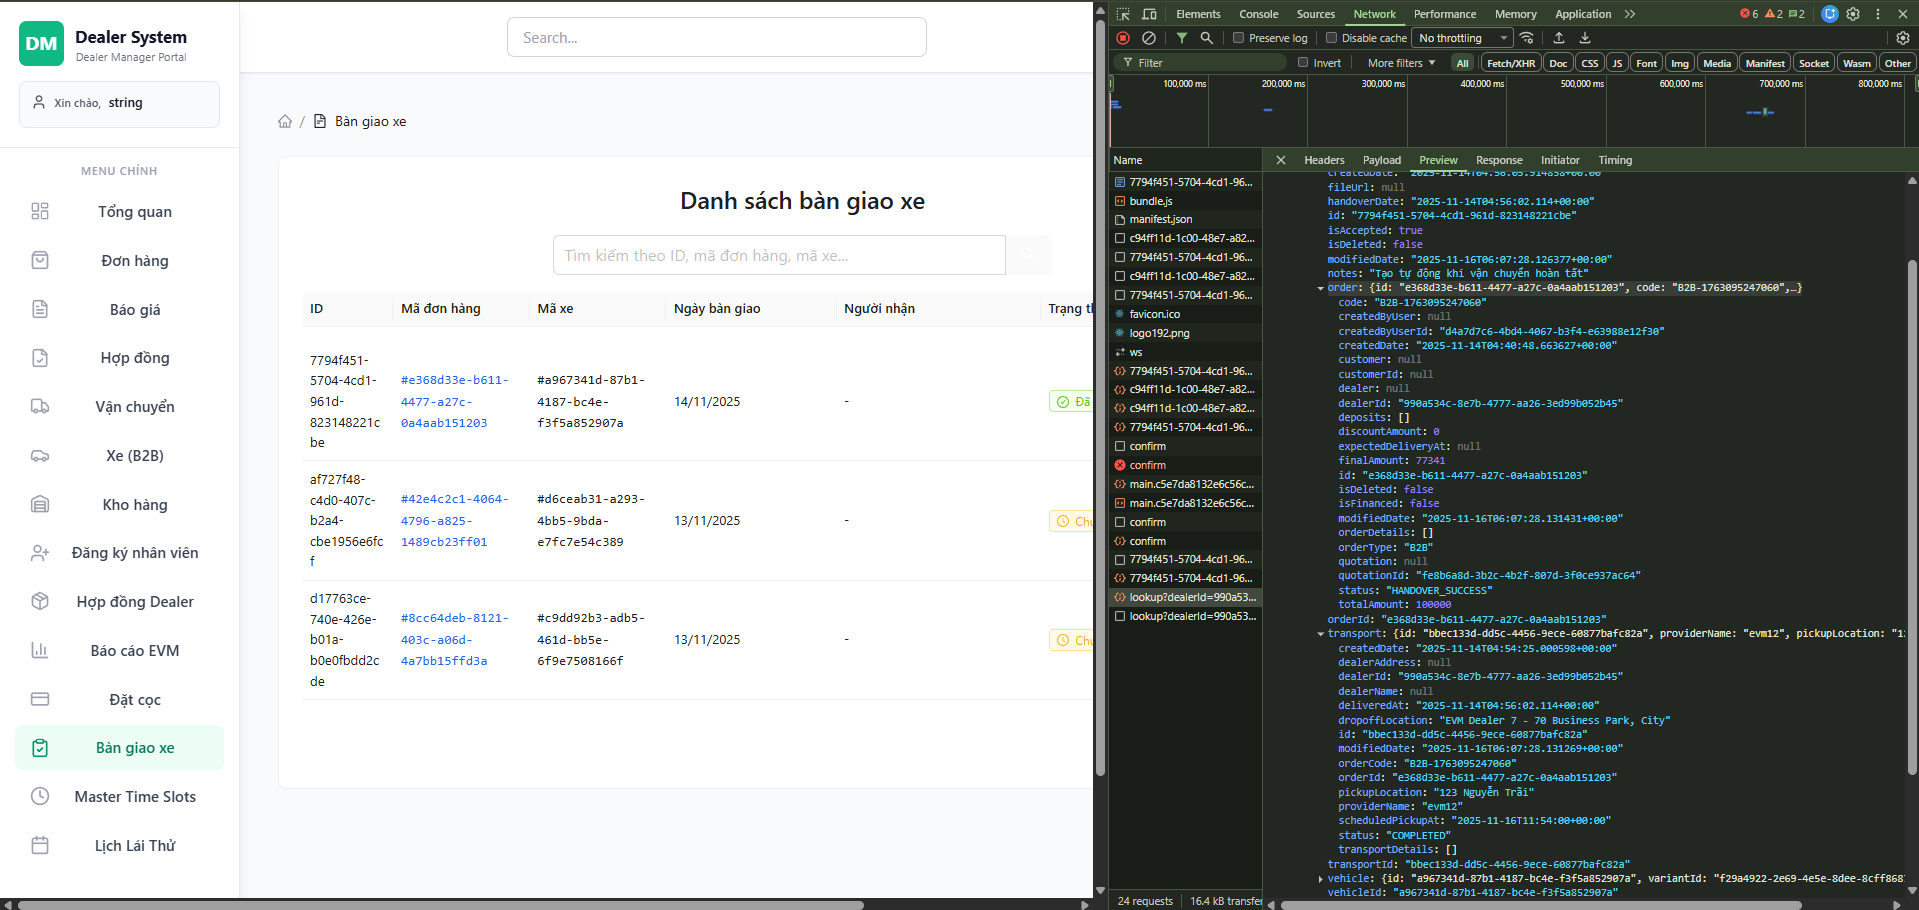
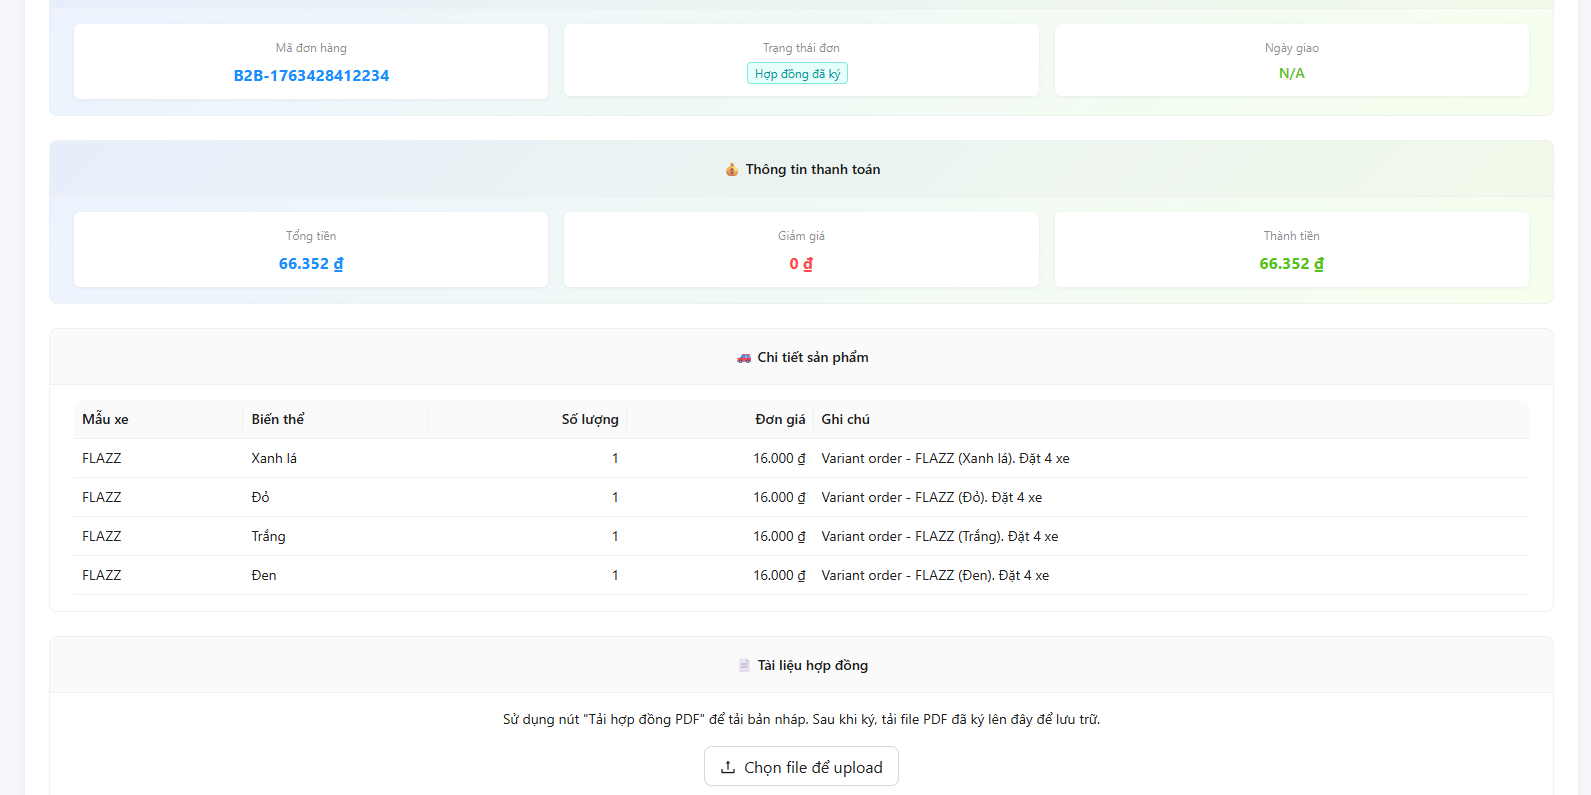
fix

diff --git a/src/features/evm-staff/pages/EvmStaffContractDetailPage.jsx b/src/features/evm-staff/pages/EvmStaffContractDetailPage.jsx
@@ -819,19 +819,23 @@ const EvmStaffContractDetailPage = () => {
           <Col span={24}>
             <Card type="inner" title="📄 Tài liệu hợp đồng" style={{ borderRadius: "8px" }}>
               <Space direction="vertical" style={{ width: "100%" }} size={16}>
-                <Text>
-                  Sử dụng nút "Tải hợp đồng PDF" để tải bản nháp. Sau khi ký, tải file PDF đã ký lên đây để lưu trữ.
-                </Text>
-                <Spin spinning={updatingContractLink} tip="Đang cập nhật tài liệu...">
-                  <FileUpload
-                    acceptedFileTypes=".pdf"
-                    onUploadComplete={handleSignedContractUpload}
-                    maxFileSize={20}
-                  />
-                </Spin>
+                {!contract.contractLink && (
+                  <>
+                    <Text>
+                      Sử dụng nút "Tải hợp đồng PDF" để tải bản nháp. Sau khi ký, tải file PDF đã ký lên đây để lưu trữ.
+                    </Text>
+                    <Spin spinning={updatingContractLink} tip="Đang cập nhật tài liệu...">
+                      <FileUpload
+                        acceptedFileTypes=".pdf"
+                        onUploadComplete={handleSignedContractUpload}
+                        maxFileSize={20}
+                      />
+                    </Spin>
+                  </>
+                )}
                 {contract.contractLink ? (
                   <Space direction="vertical" style={{ width: "100%" }}>
-                    <Divider style={{ margin: "8px 0" }} />
+                    {!contract.contractLink && <Divider style={{ margin: "8px 0" }} />}
                     <div
                       style={{
                         display: "flex",
@@ -857,9 +861,11 @@ const EvmStaffContractDetailPage = () => {
                     </Text>
                   </Space>
                 ) : (
-                  <Text type="secondary">
-                    Chưa có tài liệu hợp đồng đã ký được tải lên.
-                  </Text>
+                  !contract.contractLink && (
+                    <Text type="secondary">
+                      Chưa có tài liệu hợp đồng đã ký được tải lên.
+                    </Text>
+                  )
                 )}
               </Space>
             </Card>

diff --git a/src/features/dealer-manager/components/DepositModal.jsx b/src/features/dealer-manager/components/DepositModal.jsx
@@ -17,26 +17,10 @@ const DepositModal = ({ visible, order, onClose, onSuccess }) => {
     ? order.totalAmount - depositAmount
     : 0;
 
-  // SEPay minimum amount is 10,000 VND (same as VNPay)
-  const SEPAY_MIN_AMOUNT = 10000;
-
   const handleDeposit = async () => {
     console.log("=== handleDeposit called ===");
     console.log("Order:", order);
     console.log("Deposit amount:", depositAmount);
-    console.log("SEPay minimum:", SEPAY_MIN_AMOUNT);
-
-    // Validate minimum amount
-    if (depositAmount < SEPAY_MIN_AMOUNT) {
-      const errorMsg = `Số tiền đặt cọc tối thiểu là ${SEPAY_MIN_AMOUNT.toLocaleString(
-        "vi-VN"
-      )} ₫. Số tiền đặt cọc hiện tại: ${depositAmount.toLocaleString(
-        "vi-VN"
-      )} ₫`;
-      console.error("Validation failed:", errorMsg);
-      message.error(errorMsg);
-      return;
-    }
 
     setLoading(true);
     try {
@@ -168,20 +152,6 @@ const DepositModal = ({ visible, order, onClose, onSuccess }) => {
           </Descriptions.Item>
         </Descriptions>
 
-        {depositAmount < SEPAY_MIN_AMOUNT && (
-          <Alert
-            message="Cảnh báo"
-            description={`Số tiền đặt cọc (${depositAmount.toLocaleString(
-              "vi-VN"
-            )} ₫) nhỏ hơn mức tối thiểu của SEPay (${SEPAY_MIN_AMOUNT.toLocaleString(
-              "vi-VN"
-            )} ₫). Vui lòng kiểm tra lại tổng tiền đơn hàng trong cơ sở dữ liệu.`}
-            type="error"
-            showIcon
-            style={{ marginTop: 16 }}
-          />
-        )}
-
         <Alert
           message="Lưu ý"
           description={
@@ -189,10 +159,6 @@ const DepositModal = ({ visible, order, onClose, onSuccess }) => {
               <li>Sau khi đặt cọc thành công, đơn hàng sẽ được xác nhận</li>
               <li>Số tiền còn lại sẽ được thanh toán khi nhận xe</li>
               <li>Bạn sẽ được chuyển đến trang thanh toán SEPay</li>
-              <li style={{ color: "#ff4d4f", fontWeight: 500 }}>
-                Lưu ý: Số tiền đặt cọc tối thiểu là{" "}
-                {SEPAY_MIN_AMOUNT.toLocaleString("vi-VN")} ₫
-              </li>
             </ul>
           }
           type="warning"

diff --git a/src/features/dealer-staff/components/DepositModal.jsx b/src/features/dealer-staff/components/DepositModal.jsx
@@ -15,22 +15,10 @@ const DepositModal = ({ visible, order, onClose, onSuccess }) => {
   // Remaining amount after this deposit
   const remainingAmount = order.totalAmount ? order.totalAmount - depositAmount : 0;
 
-  // SEPay minimum amount is 10,000 VND (same as VNPay)
-  const SEPAY_MIN_AMOUNT = 10000;
-
   const handleDeposit = async () => {
     console.log('=== handleDeposit called ===');
     console.log('Order:', order);
     console.log('Deposit amount:', depositAmount);
-    console.log('SEPay minimum:', SEPAY_MIN_AMOUNT);
-
-    // Validate minimum amount
-    if (depositAmount < SEPAY_MIN_AMOUNT) {
-      const errorMsg = `Số tiền đặt cọc tối thiểu là ${SEPAY_MIN_AMOUNT.toLocaleString('vi-VN')} ₫. Số tiền đặt cọc hiện tại: ${depositAmount.toLocaleString('vi-VN')} ₫`;
-      console.error('Validation failed:', errorMsg);
-      message.error(errorMsg);
-      return;
-    }
 
     setLoading(true);
     try {
@@ -144,16 +132,6 @@ const DepositModal = ({ visible, order, onClose, onSuccess }) => {
           </Descriptions.Item>
         </Descriptions>
 
-        {depositAmount < SEPAY_MIN_AMOUNT && (
-          <Alert
-            message="Cảnh báo"
-            description={`Số tiền đặt cọc (${depositAmount.toLocaleString('vi-VN')} ₫) nhỏ hơn mức tối thiểu của SEPay (${SEPAY_MIN_AMOUNT.toLocaleString('vi-VN')} ₫). Vui lòng kiểm tra lại tổng tiền đơn hàng trong cơ sở dữ liệu.`}
-            type="error"
-            showIcon
-            style={{ marginTop: 16 }}
-          />
-        )}
-
         <Alert
           message="Lưu ý"
           description={
@@ -161,7 +139,6 @@ const DepositModal = ({ visible, order, onClose, onSuccess }) => {
               <li>Sau khi đặt cọc thành công, đơn hàng sẽ được xác nhận</li>
               <li>Số tiền còn lại sẽ được thanh toán khi nhận xe</li>
               <li>Bạn sẽ được chuyển đến trang thanh toán SEPay</li>
-              <li style={{ color: '#ff4d4f', fontWeight: 500 }}>Lưu ý: Số tiền đặt cọc tối thiểu là {SEPAY_MIN_AMOUNT.toLocaleString('vi-VN')} ₫</li>
             </ul>
           }
           type="warning"
